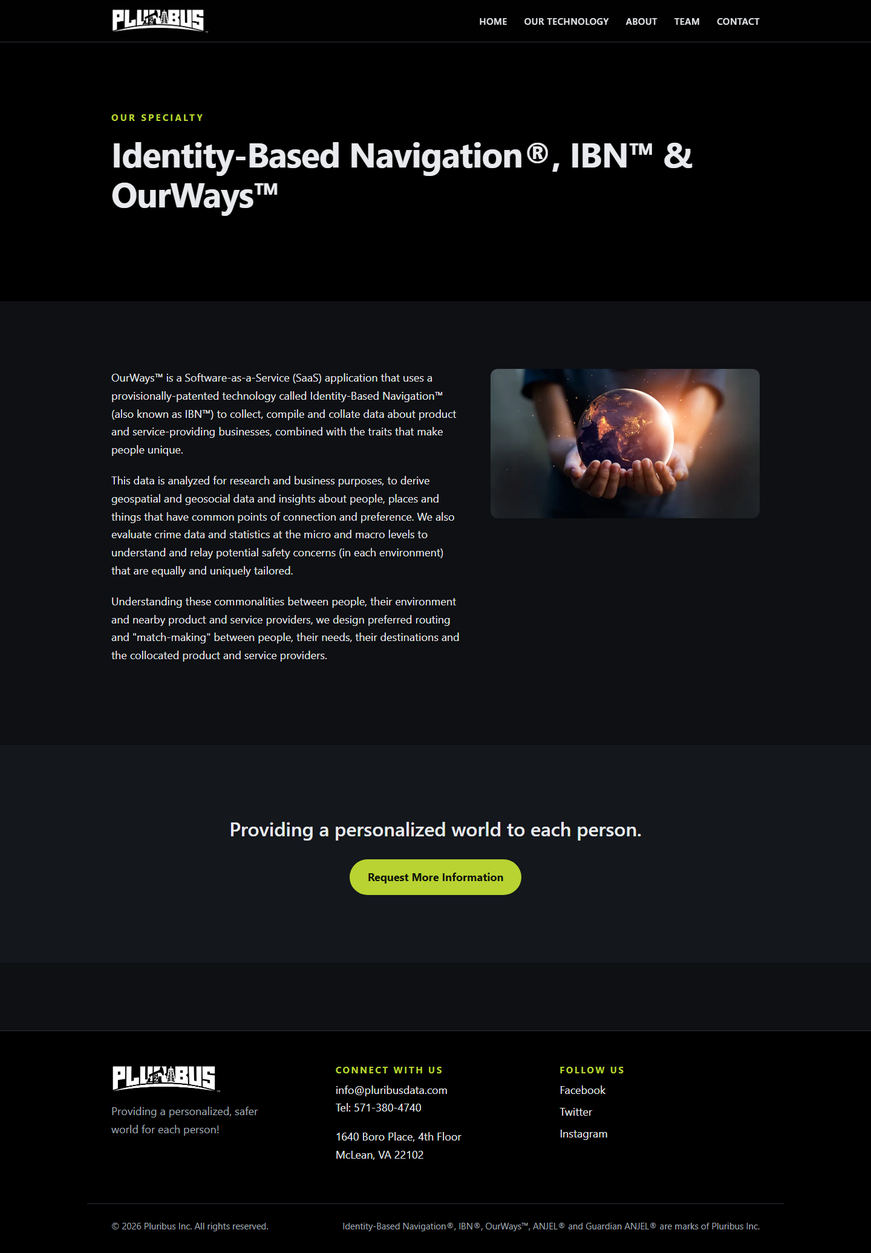
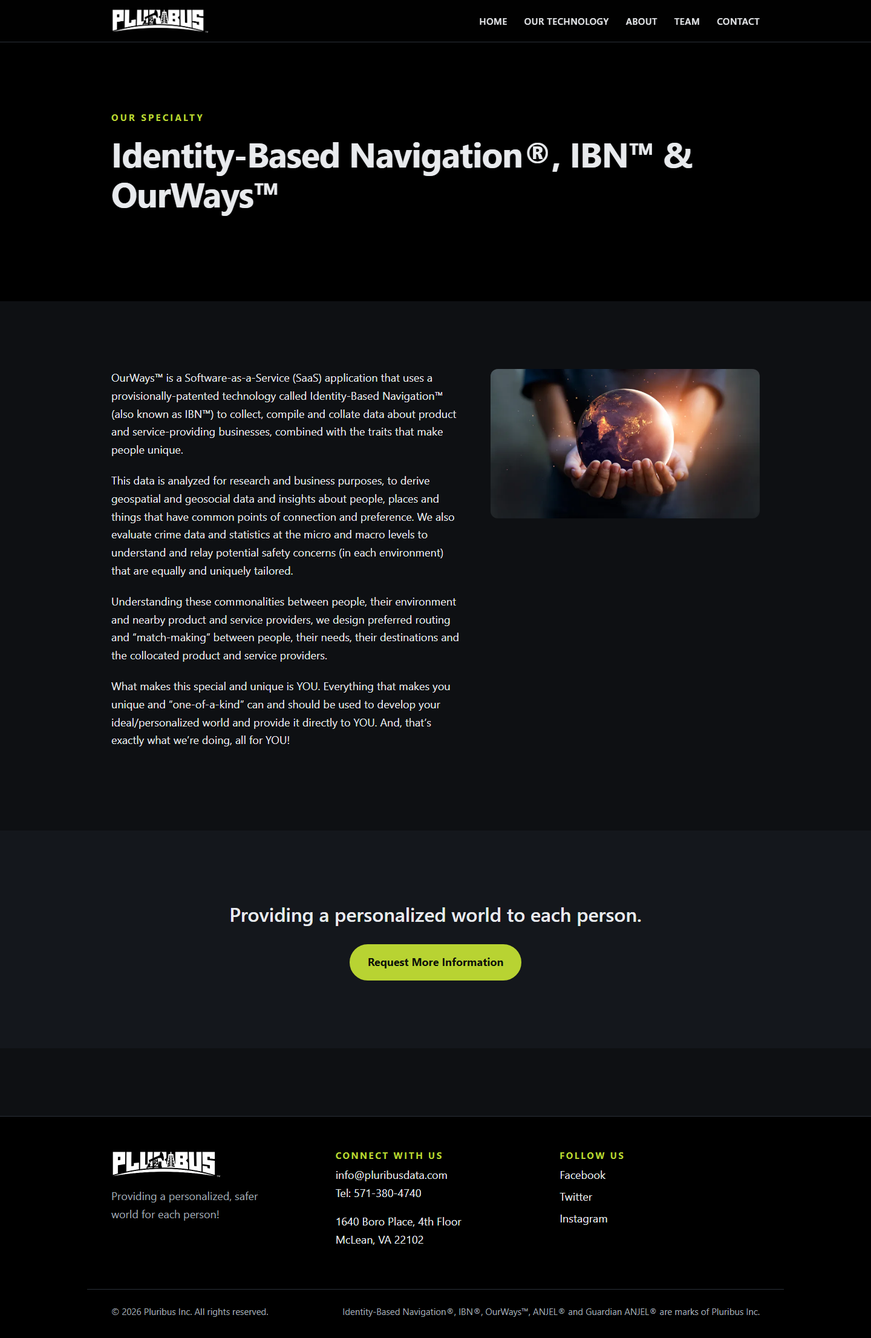
Restore verbatim pluribusdata.com copy site-wide
All seven team bios rebuilt word-for-word from the live bio pages
(extracted via headless Chromium, verified two-way against the site).
Homepage tech cards, hero lead, and CTA now use verbatim excerpts;
about lead and section headings use original section titles; the IBN
page regains its omitted closing passage; invented lead lines dropped
from contact and team pages. Smartypants disabled so rendered text
stays byte-identical to the source. Screenshots recaptured.

diff --git a/src/content/team/jeannie-bisesi.md b/src/content/team/jeannie-bisesi.md
@@ -5,12 +5,82 @@ headshot: ../../assets/images/team/jeannie-bisesi.jpg
 order: 6
 ---
 
-Jeanne Wilkins Bisesi serves as Senior Project Manager at Pluribus Inc., overseeing the Guardian ANJEL® and ANJEL Klaxon platforms. Her background encompasses human factors engineering, neuropsychology, crisis action response, and command and control through a 31-year military career spanning Air Force Active Duty, Reserve, and Air National Guard service in critical leadership positions including plans officer, command post chief, logistics readiness officer, and mission support group commander.
+Jeanne Wilkins Bisesi is a Senior Project Manager at Pluribus Inc., responsible for Guardian ANJEL and ANJEL Klaxon platforms. With a background in human factors engineering, neuropsychology, crisis action response, and command and control, Jeannie’s 31-year military career spanned Air Force Active Duty, Reserve and Air National Guard in critical leadership roles: plans officer, command post chief, logistics readiness officer, mission support group commander, and primary rep to operational planning teams, crisis action teams, and operations centers (AOC, EOC, DDOC).
 
-Her notable crisis experience includes serving as crisis action team executive officer during Y2K operations at Yokota Air Force Base and as Command Post Chief during the 9/11 response, coordinating with the Pennsylvania Emergency Management Agency. She participated in the AMC Crisis Battle Staff during COVID-19 operations, the Afghan withdrawal, and multiple hurricane responses (Michael, Florence, Dorian, Sally, Ida, and Helene).
+As a crisis action team exec officer at Yokota Air Force Base, Jeannie waited to see if Y2K mitigations had been successful as midnight approached on Dec 31st, 1999, with the world watching Japan as one of the first countries to cross into the new millennium. She was Command Post Chief of 193 SOW/CP, Pennsylvania ANG on 9/11, and communicated with the Pennsylvania Emergency Management Agency (PEMA) to respond to the forced crash of hijacked Flight 93, Shanksville PA. As a primary A4 logistics, engineering, and force protection rep to the AMC Crisis Battle Staff during COVID 19 operations, Afghan withdrawal, Operation AFGHAN REFUGE and Operation AFGHAN WELCOME, and HURCON responses to Michael (Cat 5), Florence (4), Dorian (5), Sally (4), Ida (4), and Helene (4). From inside AMC’s Crisis Battle Staff (CBS) she witnessed the Abbey Gate attack at Hamid Karzai International Airport (HKIA) on August 26th, 2021, through a direct satellite video feed. The increase in situational awareness for Air Mobility Command leadership--from actual video footage during the explosion--was exponential and immediate.
 
-Her civilian background includes published research in functional magnetic resonance imaging, reading assessments, and neurochemical effects on emotional expression. She has worked with behaviorally disabled children at Kennedy Krieger Institute and as a youth counselor.
+She served as a branch chief, deputy division chief, and division chief on the A4 staffs at Air Force Materiel Command, Air Mobility Command, as well as deputy division chief of CENTCOM DDOC Current Operations; She was the emergency operations center (EOC) Director for several exercises and two hurricanes, as well as a three wing (AFR, ANG) combined operational readiness inspection. The Air Force awarded her special experience identifiers in aerial port transportation operations, SAPR victim advocate, influence operations, OPSEC, MILDEC, and Influence Planning. She holds a level 3 certification in LPDP Professional Deployment, Distribution and Transportation.
 
-Her degrees include PhD coursework in Neuroscience at Bowling Green State University, an M.S. in Developmental Psychology from Johns Hopkins University, and a B.S. in Experimental Psychology/Human Factors Engineering from the U.S. Air Force Academy.
+As a civilian, Jeannie is a published research assistant under her maiden name in functional magnetic resonance imaging studies, reading assessments (rapid automatized naming), and the effects of oxytocin and vasopressin on emotional expression and readiness to learn. She has worked with severely behaviorally disabled children on the neurobehavioral unit of Kennedy Krieger Institute, John Hopkins Hospital campus, as well as a youth counselor with the Children’s Home of York, a 25-bed shelter housing both diagnostic and emergency shelter children between the ages of 9 to 18 years.
 
-She lists her greatest achievement as being mother to five beautiful children: Jim, Leo, Isabel, Lily, and Joe.
+Degrees:
+
+- PhD Coursework, Neuroscience, Bowling Green State University
+- MS, Developmental Psychology, The Johns Hopkins University
+- BS, Experimental Psychology/Human Factors Engineering, US Air Force Academy
+
+2022 USAF Emergency Operations Center Director Course, MLMDC813
+
+2020 AMC Nuclear Leadership Course, in-residence, Scott AFB, IL
+
+2020 Joint Logistics Enterprise (JLEnt), JKO J40 P-US1122
+
+2020 AFIT LOG 399, Strategic Logistics Management
+
+2020 AF Expeditionary Mobility Operations
+
+2019 Enterprise Leadership Seminar, 19B, Washington DC
+
+2019 JOPES Course, JKO JDTC-US351
+
+2019 Introduction to Automated Identification Technology
+
+2019 Contingency War Planners Course, Class 19E, Maxwell AFB, AL
+
+2019 2019B MASC, MAF AFFOR Staff, AF Expeditionary Ops School, JBMDL
+
+2018 SLMG Senior Leader Mission Generation Course
+
+2015 AFIT W500, Enterprise Logistics Executive Capstone Course
+
+2015 Commander’s Readiness Reporting, E6OZWXX, PDS:1JY
+
+2014 Air War College, Air University, Maxwell AFB, AL
+
+2010 Air Force Emergency Response Operations (AERO) Command and Control FEMA IS-100, IS-200, IS-700, IS-775, IS-800 Equivalent
+
+2011 Commander’s Antiterrorism Level III – MLMDC001
+
+2011 E7AST1C351 Commander SORTs DATA Handler, PDS:Y13
+
+2008 AMC Air Mobility Operations Stage Manager Course, Scott AFB, IL
+
+2004 Contemporary Insurgent Warfare Course, SOED-CIWC, PDS: LZP
+
+2001 Joint Psychological Operations Course, AFSOC: 152002, PDS: 98V 193 SOW
+
+1999 USCINCPAC JFACC Augmentation Cell Course
+
+1999 Air Mobility Ops Course, Class 99-03, Air Mobility Warfare Ctr, Fort Dix, NJ
+
+1998 USAF Tactical Deception Course, PDS:2EY, Misawa AB, Japan
+
+1998 JOPES Specialty Course, USTRANSCOM, Yokota AB, Japan
+
+1998 JOPES Basic Operations Course, USTRANSCOM, Yokota AB, Japan
+
+1997 Global Command & Control System Course, USTRANSCOM
+
+Honors and Awards:
+
+2022 Legion of Merit, AMC Reserve Advisor to the Director, AMC A4
+
+2014 Defense Meritorious Service Medal – CDDOC, Deputy Division Chief, CUOPS
+
+2009, 2008, 2005 Command Post Chief/OIC, Command Post of the Year
+
+1997 Meritorious Unit Citation from Director of Central Intelligence
+
+CORAL MAT Combined Exploitation Force and Management Team - National Air and Space Intelligence Center, 1995-1996
+
+Her greatest honor and achievement in life is being mother to five beautiful children, Jim, Leo, Isabel, Lily, and Joe.

diff --git a/src/content/team/james-balkcom.md b/src/content/team/james-balkcom.md
@@ -1,12 +1,47 @@
 ---
 name: James R. Balkcom, Jr.
-title: Investor / Advisor
+title: Investor/Advisor
 headshot: ../../assets/images/team/james-balkcom.png
 order: 3
 ---
 
-Mr. Balkcom brings extensive experience across military service, entrepreneurship, and business leadership to his advisory role at Pluribus Inc. His career highlights include serving as Chairman of EndoChoice since 2009 and Lead Director of Reach Health. He founded and operates Council Capital, L.P., and has held executive positions at numerous organizations including eVault, Inc., and Techsonic Industries (Humminbird®), which he led as owner and CEO from 1976 to 1995.
+Mr. James Balkcom is an Investor and Advisor for Pluribus, Inc., with a deep and distinguished career in military service, entrepreneurship, finance, business leadership and more:
 
-His military background includes graduating from West Point in 1967, with decorations including a Bronze Star with Oak Leaf Cluster and the Vietnamese Distinguished Service Medal. He holds an MBA in Finance from Harvard Business School and has served as Civilian Aide to the Secretary of the Army for Georgia since 2002.
+- Chairman, EndoChoice. 2009-present.
+- Lead Director, Reach Health. 2010-present.
+- Lead Director, State Bank and Trust, Chairman, Independent Director Committee. 2009-present.
+- Civilian Aide to the Secretary of the Army for Georgia. Appointed 2002-present.
+- Founding/Operating Partner, Council Capital, L.P., CEO Council and Investment Committee. 2001-present.
+- Chairman of the Advisory Board, TalentQuest. 2004-present.
+- Director, Ikobo, Inc., Online Money Transfer. 2006-2009.
+- Director, eVault, Inc., the leading provider of online data protection and quick recovery services and software. Executive Chairman. 2001-2003.
+- Director, Data Path, Inc. 2007-2009. Chairman, audit committee.
+- Chairman, Georgia Military Affairs Committee – appointed by Governor 2008.
+- Chief Executives Organization (CEO).
+- World Presidents’ Organization (WPO).
+- USO Council of Atlanta. Executive Committee.
+- Executive Committee, Metro Atlanta Association of U.S Army.
+- Atlanta Vietnam Veterans Businessmen Association.
+- Advisory Board, Shepherd Center.
 
-Mr. Balkcom resides in Atlanta with Linda, his wife of 45 years, and has two daughters and five grandchildren.
+PAST RESPONSIBILITIES INCLUDE:
+
+- Owner, Chairman, President and CEO, Techsonic Industries, Inc. 1976-1995. Humminbird®. A leading manufacturer of marine electronics.
+- Director, BankTrust Financial Group. A $1.6 billion multi-bank holding company. Executive Committee.
+- Group Executive/Consultant to Chairman/CEO, Equifax. Personal Solutions, direct to consumer online/offline business. 40% growth over prior year. 2004.
+- Director, Executive Chairman, interim CEO, PAMECO Corporation. 1996-2000. IPO, led turnaround and $185 million refinancing/re-capitalization. $400 million distributor with over 300 locations.
+- Director, non-executive Chairman, American Remanufacturers, Inc., the leading remanufacturer of under car parts with locations in California, Ohio, Mississippi, Tennessee, Michigan, and Canada. Revenues grew from $50 million to $400 million. 1996-2003.
+- Director, Century South Bank, a $1.6 billion bank holding company. Chairman, Compensation Committee. Sold to BB&T. 1998-2002.
+- Chairman Commerce South Bank, $350 million bank holding company. 2001-2005. Sold to Bank Trust.
+- 10 years Civilian Aide to the Secretary of the Army for Alabama.
+- Founding Director of Leadership Alabama.
+- International Board of Directors, Young President’s Organization (YPO); Chairman Rebel Chapter.
+- Board of Directors of National Marine Manufacturers Association.
+- Chairman, National Association of Marine Products and Services.
+
+Native of Atlanta, Georgia. Attended The Georgia Institute of Technology before appointment to The United States Military Academy, majoring in engineering. 1967 graduate of West Point. Germany: Meritorious Service Medal, 3rd Armored Division. Vietnam: Bronze Star with Oak Leaf Cluster and Vietnamese Distinguished Service Medal. Ranger, Airborne, Order of St. Maurice, 2011 Distinguished Graduate West Point Society of Atlanta.
+
+- Paul Harris Fellow; deacon of First Baptist Church of Eufaula; elder of Peachtree Presbyterian.
+- MBA, Harvard Business School, Finance. Awarded Hay Associates Management Fellowship.
+- Resides with Linda, his wife of 45 years, Atlanta, Georgia. Two daughters: Julie, a graduate of the University of Alabama, with an MBA in International Business from Georgia State University, married with two children and lives in Montgomery, Alabama; Katie graduated from Vanderbilt University and has an MBA in Marketing from Georgia State University. She is married, has three children and lives in Atlanta.
+- Five beautiful grandchildren.

diff --git a/src/content/team/gentry-smith.md b/src/content/team/gentry-smith.md
@@ -5,10 +5,12 @@ headshot: ../../assets/images/team/gentry-smith.jpg
 order: 4
 ---
 
-Ambassador Gentry O. Smith serves as a Strategic Advisor to Pluribus Inc., recognized as a global leader in diplomatic security and national defense. He brings over 30 years of distinguished U.S. Department of State service, with expertise spanning more than 170 countries including Cairo, Tokyo, and Yangon. Most recently, he was the 11th Assistant Secretary for Diplomatic Security, overseeing a $6 billion budget and leading 48,000 personnel globally.
+Ambassador Gentry O. Smith is a Strategic Advisor to Pluribus Inc., as a globally recognized leader in diplomatic security, national defense, and international law enforcement. With over 30 years of distinguished service in the U.S. Department of State, Smith has been at the forefront of securing diplomatic operations in some of the world’s most complex and high-threat environments. His expertise spans over 170 countries, including critical postings in Cairo, Tokyo, and Yangon (Rangoon), where he has shaped security strategies and strengthened international partnerships. Most recently, Smith was the 11th Assistant Secretary (AS/DS) for Diplomatic Security at the United States Department of State where he oversaw a $6 billion security budget and provided leadership to a global workforce of 48,000 personnel.
 
-Ambassador Smith has advanced public safety through roles in the Office of Foreign Missions, Diplomatic Security, and Security Countermeasures. He has collaborated with Fortune 500 Chief Security Officers, major corporations, faith-based organizations, and NGOs to strengthen security resilience in high-risk areas.
+As a seasoned security professional, Smith has played a pivotal role in advancing public safety and national security through leadership in essential organizations such as the Office of Foreign Missions, Diplomatic Security, Security Countermeasures, and Research & Development Security Programs. His impact extends beyond government operations, as he has collaborated with Fortune 500 Chief Security Officers (CSOs), major corporations, faith-based organizations, educational institutions, and NGOs to enhance security resilience in high-risk areas.
 
-As a trusted government advisor, he has worked alongside over 400 ambassadors, the U.S. Intelligence Community, military leadership, and the National Security Council. He has protected three U.S. Secretaries of State and contributed expertise to major global events including the World Cup and the Olympics for counterterrorism and cybersecurity measures.
+A trusted advisor to the highest levels of government, Smith has worked alongside over 400 ambassadors, the U.S. Intelligence Community, the U.S. Military, the Joint Chiefs of Staff, and the U.S. National Security Council. He has also been directly involved in protecting three U.S. Secretaries of State and visiting foreign dignitaries. His influence extends to premier global events such as the World Cup and the Olympics, where his expertise has strengthened counterterrorism awareness and physical and cybersecurity measures.
 
-He holds a Bachelor of Arts in Political Science from North Carolina State University and possesses Top Secret/Sensitive Compartmented Information (TS/SCI) security clearances, along with certifications in security investigations and high-threat foreign deployments.
+Smith holds a Bachelor of Arts in Political Science from North Carolina State University and has received extensive law enforcement training through the North Carolina Justice Academy and Federal Law Enforcement programs. His credentials include Top Secret/Sensitive Compartmented Information (TS/SCI) security clearances, as well as certifications in security clearance investigations and high-threat foreign deployments.
+
+As a Strategic Advisor to PLURIBUS Inc., Smith brings unparalleled expertise in global security operations, risk management, and strategic defense initiatives. His vast experience, expansive network, and proven leadership will be instrumental in guiding PLURIBUS as it continues to drive innovation in defense technology, national security, and global security sectors.

diff --git a/src/content/team/rodgers-allen.md b/src/content/team/rodgers-allen.md
@@ -7,10 +7,10 @@ order: 2
 
 Mr. Rodgers Allen, Jr. is the Vice President for Pluribus Inc., a big data, geosocial & geospatial analytics company headquartered in McLean, Virginia. Mr. Allen joined Pluribus to help lead the world in an entirely new industry: Identity-Based Navigation®.
 
-After graduating from the Academy of Mathematics and Science High School in St. Louis, Missouri, Mr. Allen joined the United States Army as a logistician stationed at Fort Bragg, North Carolina, and deployed to Desert Shield/Desert Storm providing logistics support to the 82nd Airborne and 7th Corps Infantry Divisions. He subsequently joined the St. Louis Metropolitan Police Department, leading several investigation bureaus including Internal Affairs and Criminal Investigations, before being recruited by the Federal Bureau of Investigation, where he served on the Joint Terrorism Task Force for eight years.
+After graduating from the Academy of Mathematics and Science High School in St. Louis, Missouri Mr. Allen would join the United States Army where he served as a logistician while stationed at Fort Bragg, North Carolina. Mr. Allen deployed to Desert Shield/Desert Storm where he provided logistics support to the 82nd Airborne and 7th Corps Infantry Divisions. Mr. Allen joined the St. Louis Metropolitan Police Department where he would lead several investigation bureaus, to include Internal Affairs and Criminal Investigations bureau. Due to his excellent service Mr. Allen was recruited to join the Federal Bureau of Investigation where he served on the Joint Terrorism Task Force for eight years.
 
-Mr. Allen was later recruited by the National Geospatial-Intelligence Agency as an imagery analyst, spending 10 years advancing his geospatial expertise before becoming Deputy Director of NGA's Office of Science and Technology, overseeing scientific disciplines, data centers, and cloud portfolios.
+Mr. Allen would later be recruited by the National Geospatial-Intelligence Agency to serve as an imagery analyst. There, Mr. Allen would spend the next 10 years learning and deepening his knowledge, skill, ability and network as a geospatial expert in many different roles... culminating as the Deputy Director of NGA’s Office of Science and Technology! In this capacity, Rodgers oversaw the various scientific disciplines within the National Geospatial-Intelligence Agency to include Imagery Science and Data Science. As an additional duty in this position, he also managed his office’s Data Center and Cloud Portfolio.
 
-Previously, he served as an Executive Account Manager at Amazon Web Services, earning AWS Cloud Practitioner and AI certifications while leading a team generating $500 million in annual revenue for three consecutive years across U.S. Intelligence Community agencies.
+Previously, Mr. Allen was an Executive Account Manager at Amazon Web Services, where he earned his AWS Cloud Practitioner and AI certification. In this role, he led a team that generated $500 million in annual revenue for three consecutive years by driving cloud adoption across all 18 agencies of the U.S. Intelligence Community.
 
-A Webster University graduate with a B.A. in Political Science, Mr. Allen has received the National Security Initiative, the Department of Justice Distinguished Service Award, and the Army Achievement Medal. He is married to Marjorie Grace Allen.
+A Webster University graduate with a B.A. in Political Science, Mr. Allen has earned several high-level honors. His accolades include the National Security Initiative, the Department of Justice Distinguished Service Award, and the Army Achievement Medal, which was awarded for his actions during combat. Mr. Allen is happily married to Marjorie Grace Allen.

diff --git a/src/content/team/james-samuel.md b/src/content/team/james-samuel.md
@@ -5,8 +5,10 @@ headshot: ../../assets/images/team/james-samuel.jpg
 order: 1
 ---
 
-Mr. Samuel established Pluribus Inc., a geospatial analytics firm based in McLean, Virginia, focusing on Identity-Based Navigation®. His career includes serving as a Tier-2 Defense Intelligence Senior Executive with over 30 years of federal service. His positions encompassed roles such as National Geospatial Intelligence Officer, NGA Operations Center Director, and country lead for Djibouti. He also served as a U.S. Air Force pilot with more than 1,000 flight hours and as an F-15C fighter pilot.
+Mr. James A. Samuel, Jr. is the Founder & CEO of Pluribus Inc., a big data, geospatial analytics company headquartered in McLean, Virginia. Mr. Samuel founded Pluribus to lead the world in an entirely new industry: Identity-Based Navigation®. Mr. Samuel possesses an extensive set of skills and life experiences that uniquely qualify him to fulfill this vision.
 
-Before founding Pluribus, he held the position of Chief of Congressional Affairs at the National Geospatial-Intelligence Agency, managing personnel through multiple congressional hearings and budget cycles. His efforts secured a $1.7 billion appropriation for NGA's St. Louis campus expansion, earning the 2017 Intelligence Community Legislative Affairs Team of the Year award.
+As a former Tier-2 (2-Star General-equivalent) member of the Defense Intelligence Senior Executive Service (SES), with over 30 years of federal service, Mr. Samuel solved numerous, national-level problems via positions of increasing responsibility, scope and complexity: National Geospatial Intelligence Officer for Aeronautical Issues; NGA Operations Center Director; NGA Country Lead – Djibouti, Africa; Senior NGA Representative to the ISAF Joint Command – Kabul, Afghanistan; Deputy Director of NGA’s Support Team to the U.S. Transportation Command; Geospatial Imagery & Data Analyst; U.S. Air Force Telecommunications Engineer and F-15C Fighter Pilot with over 1000 total flight hours.
 
-His educational credentials include a B.S. in General Engineering from the U.S. Air Force Academy, an M.A. in Information Technology from Webster University, and executive education at Harvard's Kennedy School. He holds multiple patents and has received the Presidential Rank Award and the BAAE Entrepreneur of the Year Award. He is married to Dr. Evelyn Teague Samuel.
+Prior to founding Pluribus Inc., Mr. Samuel served as the Chief of Congressional Affairs at the National Geospatial-Intelligence Agency (NGA), where he led the agency—comprising several thousand personnel—through 12 classified hearings, six public hearings, and three annual congressional budget cycles involving multi-billion-dollar portfolios. He also delivered two personal testimonies before Congress and successfully secured a $1.7 billion military construction appropriation for NGA’s new campus in St. Louis, Missouri. For these efforts, he and his team were honored with the 2017 Intelligence Community Legislative Affairs Team of the Year award by the U.S. Director of National Intelligence.
+
+Mr. Samuel holds a B.S. in General Engineering from the U.S. Air Force Academy, an M.A. in Information Technology from Webster University, and he completed his Executive Education at the John F. Kennedy School of Government at Harvard University. He holds multiple patents and is the recipient of numerous honors, including the prestigious Presidential Rank Award of Meritorious Defense Intelligence Senior Professional and BAAE Entrepreneur of the Year Award. Mr. Samuel is happily married to Dr. Evelyn Teague Samuel.

diff --git a/src/content/team/daniel-neustadter.md b/src/content/team/daniel-neustadter.md
@@ -5,8 +5,32 @@ headshot: ../../assets/images/team/daniel-neustadter.jpg
 order: 7
 ---
 
-Daniel Neustadter serves as a Development Operations, Data and Cyber Engineer at Pluribus Inc., having previously worked as a Software Development Operations Airman with the U.S. Air Force's BESPIN Software Factory at Maxwell Air Force Base, Alabama. During his Air Force tenure, he supported applications on AWS GovCloud and Cloud One, contributed to building the organization's penetration testing program, and spearheaded threat-hunting initiatives that resolved hundreds of vulnerabilities. He also assisted in constructing and securing an enterprise network serving over 100 personnel.
+Daniel Neustadter is a Development Operations, Data and Cyber Engineer at Pluribus Inc., joining the company after serving as a Software Development Operations Airman with the U.S. Air Force's BESPIN Software Factory at Maxwell Air Force Base, Alabama.
 
-He maintains a security clearance and holds multiple advanced degrees, including an M.S. and B.S. in Cybersecurity & Information Assurance from Western Governors University, plus an A.S. in Computer Science Technology from the Community College of the Air Force.
+At BESPIN, Daniel worked to support Air Force applications on AWS GovCloud and Cloud One, helped build out the organization's penetration testing program, and led threat-hunting efforts that remediated hundreds of vulnerabilities. He also helped build and harden a secure enterprise network supporting more than 100 personnel.
 
-His certifications span cloud, security, and infrastructure domains, including credentials from ISC2, PMI, AWS, HashiCorp, CompTIA, and LPI. He earned Eagle Scout recognition and volunteers as a Boy Scouts of America instructor throughout the Southeastern United States while contributing to open source projects.
+He holds a security clearance and the following credentials:
+
+Degrees:
+
+- M.S., Cybersecurity & Information Assurance, Western Governors University
+- B.S., Cybersecurity & Information Assurance, Western Governors University
+- A.S., Computer Science Technology, Community College of the Air Force
+
+Certifications:
+
+- Associate of ISC2 (CISSP and CCSP exams passed; full certification pending experience requirement)
+- ISC2 SSCP, CC
+- PMI PMP, CAPM
+- ITIL 4 Foundations
+- AWS Certified Cloud Practitioner
+- HashiCorp Certified: Terraform Associate
+- CompTIA SecurityX, PenTest+, CySA+, Security+, Network+, Server+, A+, Linux+, Project+, ITF+
+- LPI Linux Essentials
+- GitLab Certified Associate
+
+Honors:
+
+- Eagle Scout, Boy Scouts of America
+
+Outside of work, he contributes to open source software projects and has spent many years as a Boy Scouts of America instructor, supporting scouts across the Southeastern United States.

diff --git a/src/content/team/daniel-barbara.md b/src/content/team/daniel-barbara.md
@@ -5,13 +5,24 @@ headshot: ../../assets/images/team/daniel-barbara.jpg
 order: 5
 ---
 
-Dr. Barbará serves as a Research Partner for Pluribus Inc., focusing on Air Force STTR/SBIR research initiatives. Since 1997, he has been teaching at George Mason University, specializing in data mining and machine learning. He chaired the SIAM International Conference on Data Mining in 2003 and has secured numerous grants from the National Science Foundation, the Army, and other federal and state agencies.
+Dr. Daniel Barbará is a research partner for PLURIBUS Inc., in the areas of Air Force STTR/SBIR research and development. Dr. Barbará has taught at George Mason University since 1997. His areas of expertise are data mining and machine learning. He served as the program chair of the SIAM International Conference on Data Mining in 2003, and he has received numerous grants from the National Science Foundation, the Army, and other federal and state institutions.
 
-His recent research projects include:
+Research:
 
-- 2023–2024: STTR Phase I on Metadata Overlay and Live Streaming Security Incident Reporting (U.S. Air Force / AFWERX)
-- 2012–2015: NSF-funded experimental infrastructure for wireless computing and cybersecurity research
-- 2012–2013: Army-funded geospatial anomaly detection research
-- 2011: Visualization tool development for sensing and surveillance systems
+2023 - 2024: STTR Phase I - Metadata Overlay + Live Streaming and Geolocating Security Incident Reporting System. Funded by the U.S. Air Force - AFWERX
 
-He was recognized as Outstanding Researcher by the Computer Science Department at George Mason University. He holds a PhD and an MS in Computer Science from Princeton University, and a BS in Electrical Engineering from Universidad Metropolitana.
+2012 - 2015 : II-NEW: An Experimental Infrastructures for Cross-domain Research in Wireless Computing, Cybersecurity, and Data Mining. Funded by the National Science Foundation.
+
+2012 - 2013: Discovering Area Anomalies to Support Detection of Geospatial Stressing Factors. Funded by the US Army.
+
+2011 - 2011: A visualization and analysis tool for a large-scale sensing and surveillance system. Funded by Invertix Corp.
+
+Honors and Awards:
+
+- Outstanding Researcher, CS Department, George Mason University
+
+Degrees:
+
+- PhD, Computer Science, Princeton University
+- MS, Computer Science, Princeton University
+- BS, Electrical Engineering, Universidad Metropolitana

diff --git a/README.md b/README.md
@@ -78,9 +78,10 @@ hosted form later, see the comment in
 
 ## v1 snapshot
 
-Captured 2026-07-29 from the `v1` tag (`origin/main` at the time): a
-point-in-time snapshot that works, but is not the final vision. Full-page
-desktop captures at 1440px; mobile at 390px.
+Captured 2026-07-29 from this branch: the v1 design with all descriptive copy
+restored verbatim from pluribusdata.com (team bios word-for-word as their
+subjects wrote them). The `v1` tag preserves the original point-in-time
+snapshot. Full-page desktop captures at 1440px; mobile at 390px.
 
 ### Home
 
